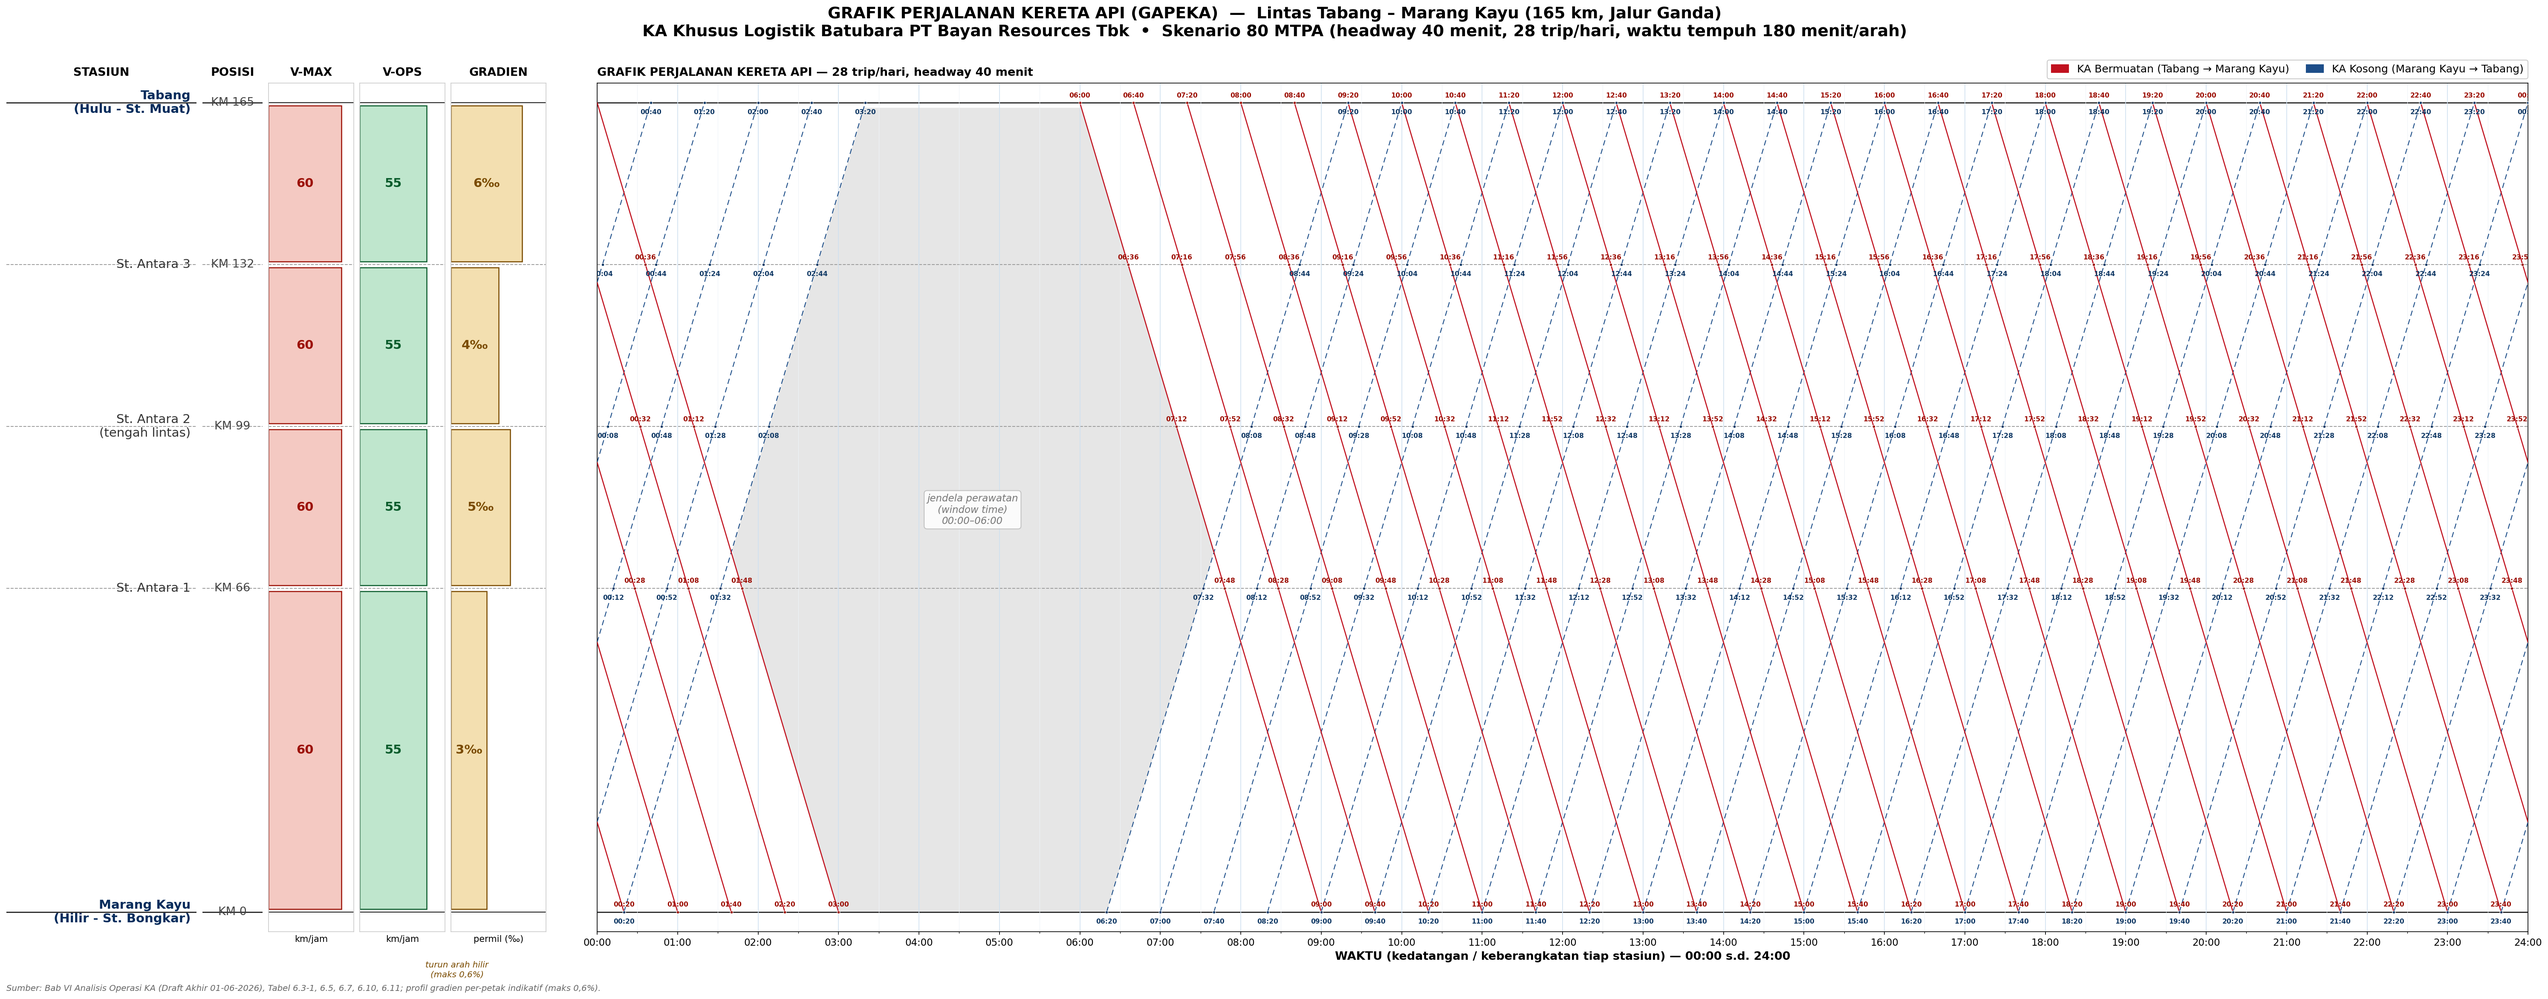
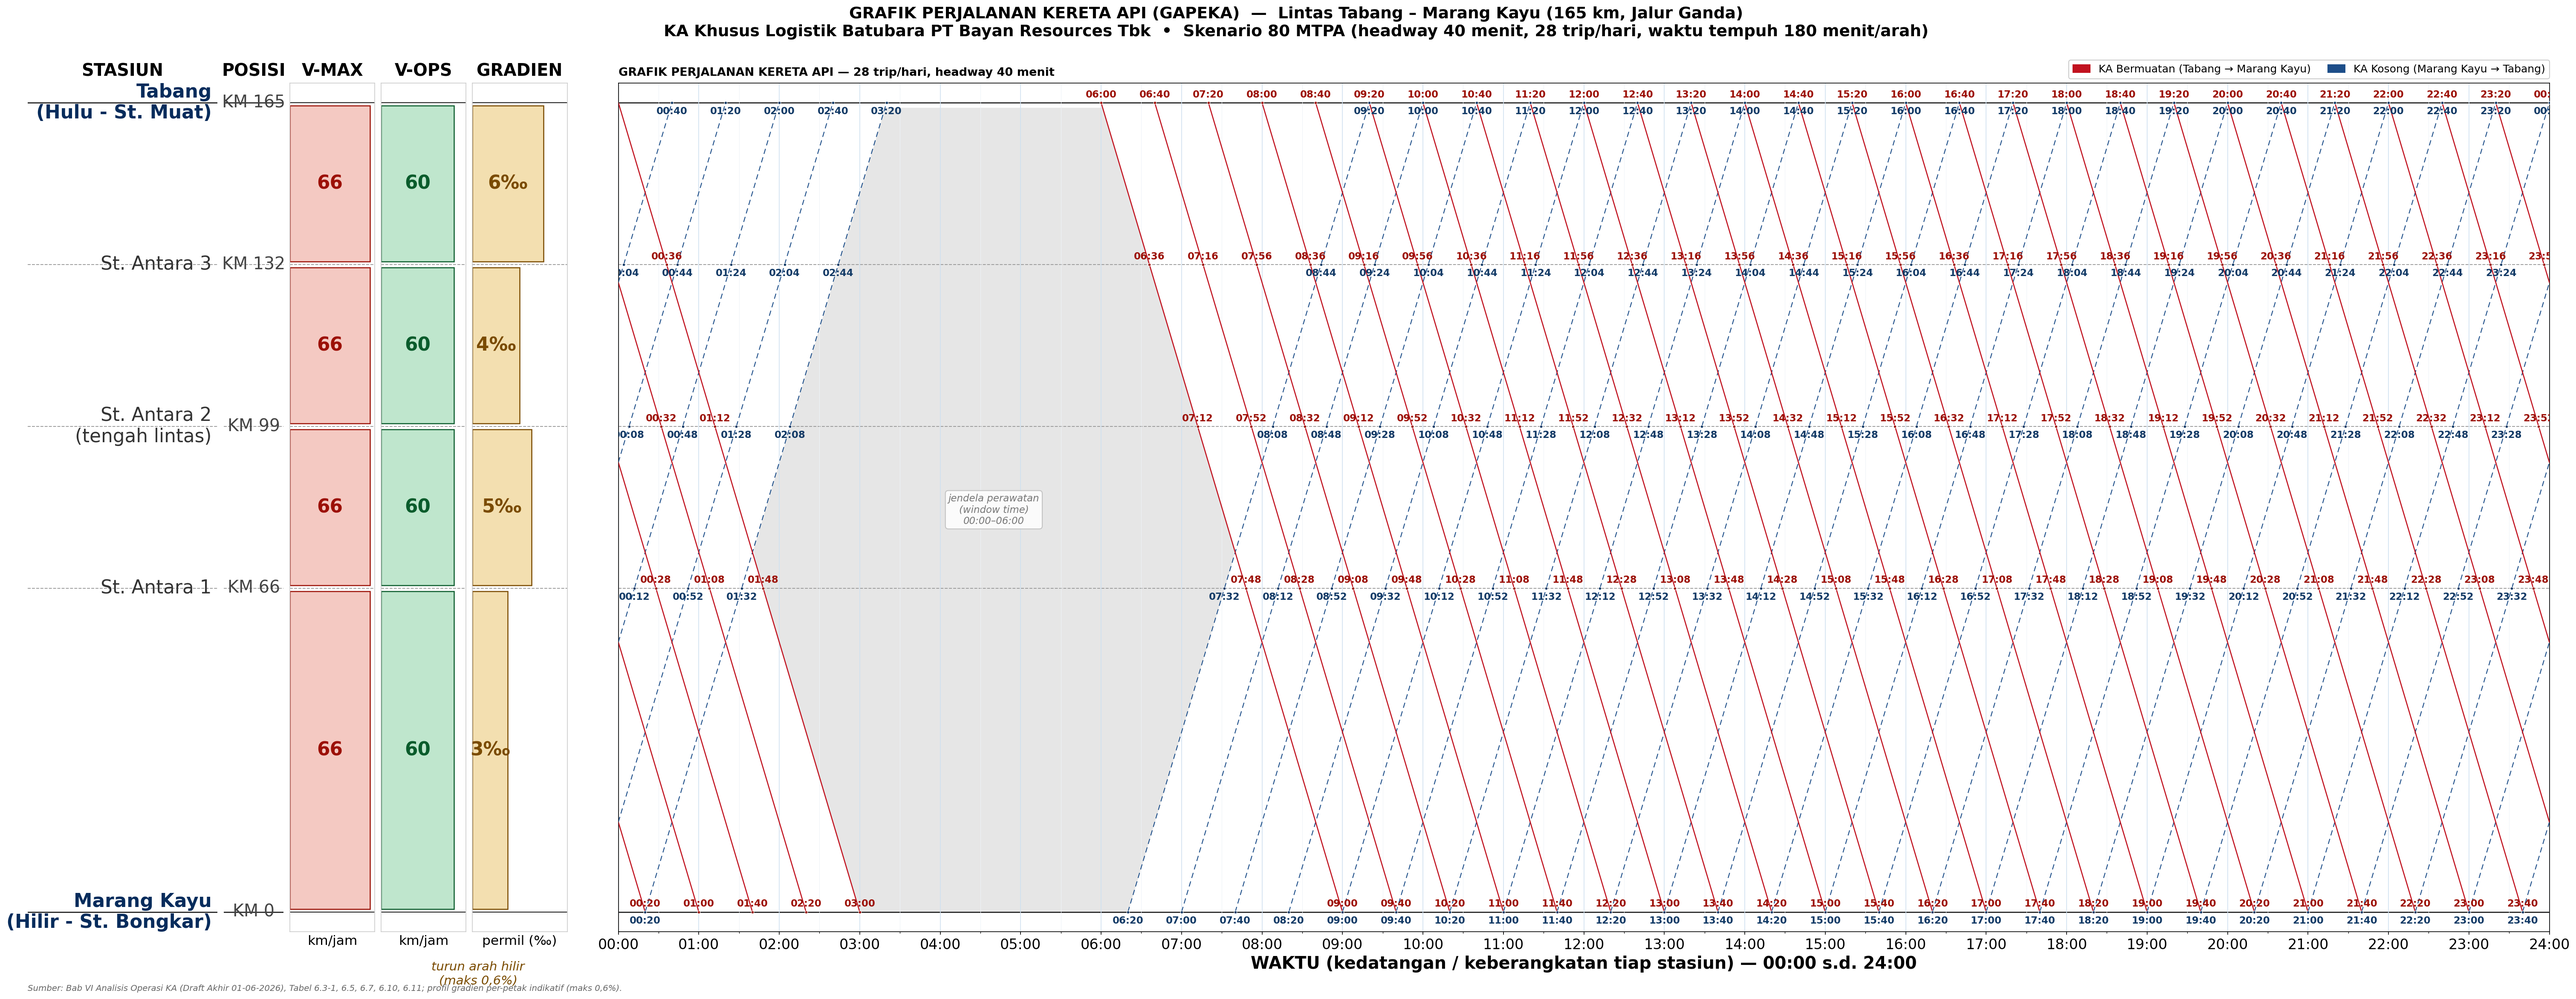
Set V-max 66 / V-ops 60; enlarge left columns and time labels 1.5x; keep title/legend size

diff --git a/outputs/make_gapeka.py b/outputs/make_gapeka.py
@@ -31,10 +31,10 @@ YMIN, YMAX = 0, 165
 
 # Petak jalan (arah bermuatan hulu->hilir): km_atas, km_bawah, jarak, Vmax, Vops, gradien_permil
 SEGMENTS = [
-    (165, 132, 33, 60, 55, 6.0),
-    (132,  99, 33, 60, 55, 4.0),
-    ( 99,  66, 33, 60, 55, 5.0),
-    ( 66,   0, 66, 60, 55, 3.0),
+    (165, 132, 33, 66, 60, 6.0),
+    (132,  99, 33, 66, 60, 4.0),
+    ( 99,  66, 33, 66, 60, 5.0),
+    ( 66,   0, 66, 66, 60, 3.0),
 ]
 VOPS = 55.0
 def seg_minutes(d): return d / VOPS * 60.0
@@ -89,16 +89,16 @@ def build(scn, annotate_all=False, dpi=150, figsize=(22, 11.5)):
     # Kolom 1: nama
     ax_name.set_xlim(0, 1); station_lines(ax_name)
     for name, km, typ in STATIONS:
-        ax_name.text(0.97, km, name, ha="right", va="center", fontsize=14,
+        ax_name.text(0.97, km, name, ha="right", va="center", fontsize=21,
                      fontweight=("bold" if typ == "terminal" else "normal"),
                      color=("#062c5c" if typ == "terminal" else "#333"))
-    ax_name.set_title("STASIUN", fontsize=13, fontweight="bold", pad=8)
+    ax_name.set_title("STASIUN", fontsize=19, fontweight="bold", pad=8)
 
     # Kolom 2: KM
     ax_km.set_xlim(0, 1); station_lines(ax_km)
     for name, km, typ in STATIONS:
-        ax_km.text(0.5, km, f"KM {km:g}", ha="center", va="center", fontsize=13, color="#444")
-    ax_km.set_title("POSISI", fontsize=13, fontweight="bold", pad=8)
+        ax_km.text(0.5, km, f"KM {km:g}", ha="center", va="center", fontsize=19, color="#444")
+    ax_km.set_title("POSISI", fontsize=19, fontweight="bold", pad=8)
 
     for ax in (ax_name, ax_km):
         ax.set_xticks([]); ax.set_yticks([])
@@ -110,9 +110,9 @@ def build(scn, annotate_all=False, dpi=150, figsize=(22, 11.5)):
             ax.barh((kt + kb) / 2, val, height=abs(kt - kb) - 1.2,
                     color=fill, edgecolor=color, lw=1.2, zorder=2)
             ax.text(val * 0.5, (kt + kb) / 2, fmt.format(val), ha="center", va="center",
-                    fontsize=14, fontweight="bold", color=color, zorder=3)
-        ax.set_title(title, fontsize=13, fontweight="bold", pad=8)
-        ax.set_xlabel(unit, fontsize=10)
+                    fontsize=21, fontweight="bold", color=color, zorder=3)
+        ax.set_title(title, fontsize=19, fontweight="bold", pad=8)
+        ax.set_xlabel(unit, fontsize=15)
         ax.set_xticks([]); ax.set_yticks([])
         for sp in ax.spines.values(): sp.set_color("#ccc")
 
@@ -121,25 +121,25 @@ def build(scn, annotate_all=False, dpi=150, figsize=(22, 11.5)):
     profile(ax_grad, [s[5] for s in SEGMENTS], 8, "#7a4b00", "#f3dfb0", "permil (‰)",
             "GRADIEN", fmt="{:.0f}‰")
     ax_grad.text(0.5, -10, "turun arah hilir\n(maks 0,6%)", ha="center", va="top",
-                 fontsize=9.5, style="italic", color="#7a4b00")
+                 fontsize=14, style="italic", color="#7a4b00")
 
     # PANEL UTAMA
     station_lines(ax_main)
     ax_main.set_xlim(T_START, T_END)
     xt = list(range(0, T_END + 1, 60))
     ax_main.set_xticks(xt)
-    ax_main.set_xticklabels([hhmm(t) for t in xt], fontsize=11, rotation=0)
+    ax_main.set_xticklabels([hhmm(t) for t in xt], fontsize=16, rotation=0)
     ax_main.xaxis.set_minor_locator(MultipleLocator(30))
     ax_main.grid(which="major", axis="x", color="#cfe0f0", lw=0.8, zorder=0)
     ax_main.grid(which="minor", axis="x", color="#eef3f8", lw=0.5, zorder=0)
     ax_main.set_xlabel("WAKTU (kedatangan / keberangkatan tiap stasiun) — 00:00 s.d. 24:00",
-                       fontsize=13, fontweight="bold")
+                       fontsize=19, fontweight="bold")
     ax_main.set_title(f"GRAFIK PERJALANAN KERETA API — {freq} trip/hari, headway {headway} menit",
                       fontsize=13, fontweight="bold", pad=8, loc="left")
     ax_main.tick_params(axis="y", left=False, labelleft=False)
 
     lw_l, lw_e = (1.2, 1.0) if annotate_all else (1.7, 1.3)
-    lab_fs = 7.5 if annotate_all else 7.6
+    lab_fs = 11.0 if annotate_all else 7.6
     DAY = 24 * 60  # batas 24:00; perjalanan yang melewatinya dibungkus (wrap) ke 00:00
 
     def draw_path(pts, color, lw, ls, lab_color=None, dy=0, zorder=4):
